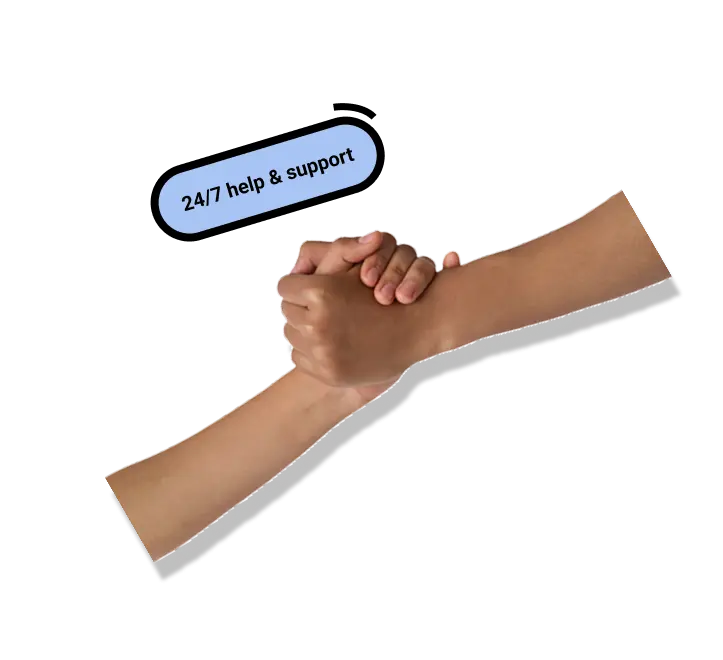
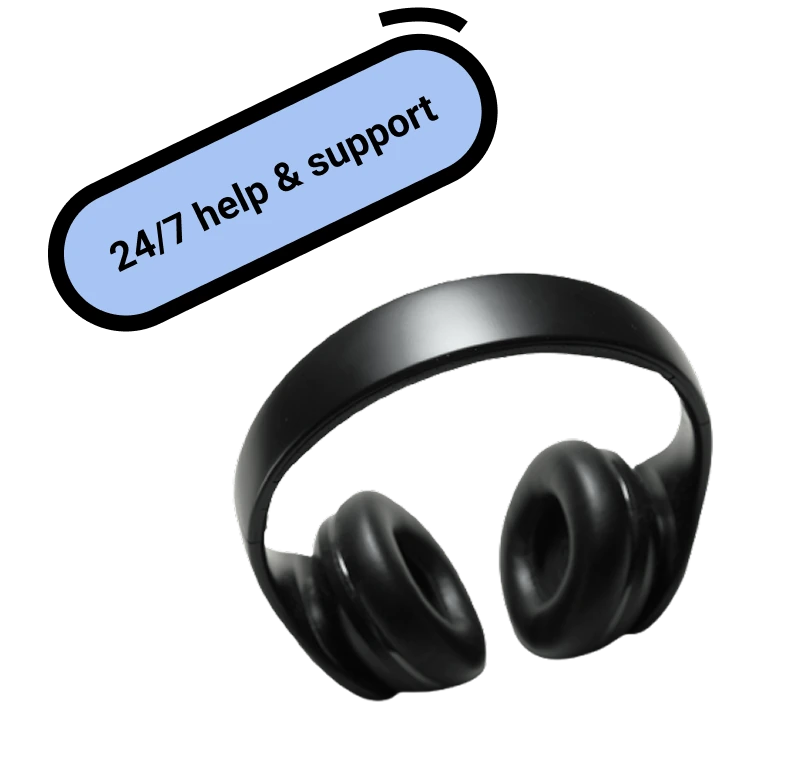
fixed stacking cards glitch.

diff --git a/app/[locale]/components/Home/Features.tsx b/app/[locale]/components/Home/Features.tsx
@@ -1,11 +1,8 @@
 "use client";
 
-import { useEffect, useRef } from "react";
-import gsap from "gsap";
-import { ScrollTrigger } from "gsap/ScrollTrigger";
 import Image from "next/image";
-
-import { motion } from "framer-motion";
+import { motion, useScroll, useTransform } from "framer-motion";
+import { useRef } from "react";
 import { useTranslations } from "next-intl";
 
 const Features = () => {
@@ -19,7 +16,7 @@ const Features = () => {
       points: t.raw("healthAssessment.points"),
       img: "/images/FreeTools.webp",
       checkPointIcon: "/icons/checkpoint_green.svg",
-      imgStyle: "w-0 md:w-60 md:right-0 md:top-10 lg:w-90 lg:right-0 lg:top-10",
+      imgStyle: "md:w-55 md:right-0 md:-top-20 lg:w-90 lg:right-5 lg:-top-30",
       bgStyle: "bg-[#CBE4C0]",
       textStyle: "text-[#2E551E]",
     },
@@ -28,7 +25,7 @@ const Features = () => {
       points: t.raw("personalizedPlan.points"),
       img: "/images/PrivateSpecialist.webp",
       checkPointIcon: "/icons/checkpoint_white.svg",
-      imgStyle: "w-0 md:w-85 md:right-0 md:top-5 lg:w-120 lg:right-0 lg:top-10",
+      imgStyle: "md:w-70 md:right-0 md:-top-25 lg:w-120 lg:right-0 lg:-top-30",
       bgStyle: "bg-[#4D8E32]",
       textStyle: "text-white",
     },
@@ -38,55 +35,25 @@ const Features = () => {
       img: "/images/HelpAndSupport.webp",
       checkPointIcon: "/icons/checkpoint_white.svg",
       imgStyle:
-        "w-0 md:w-80 md:-right-20 md:-bottom-20 lg:w-120 lg:-right-20 lg:-bottom-30",
-      bgStyle: "bg-[#3A6B26] overflow-hidden",
+        "md:w-50 md:right-0 md:-bottom-30 lg:w-70 lg:right-0 lg:-bottom-40",
+      bgStyle: "bg-[#3A6B26]",
       textStyle: "text-white",
     },
   ];
 
-  useEffect(() => {
-    gsap.registerPlugin(ScrollTrigger);
-
-    const cards = gsap.utils.toArray<HTMLElement>(".stacking-card");
-    const spacer = 30;
-
-    cards.forEach((card, index) => {
-      ScrollTrigger.create({
-        trigger: card,
-        start: `center-=${index * spacer} center`,
-        endTrigger: ".stacking",
-        end: `bottom center`,
-        pin: true,
-        pinSpacing: false,
-        invalidateOnRefresh: true,
-      });
-
-      const scaleValue = 0.9 + index * 0.04;
-
-      gsap.to(card, {
-        scrollTrigger: {
-          trigger: card,
-          start: `top center`,
-          end: `bottom center`,
-          scrub: true,
-        },
-        scale: scaleValue,
-      });
-    });
-
-    return () => {
-      ScrollTrigger.getAll().forEach((t) => t.kill());
-    };
-  }, []);
+  const { scrollYProgress } = useScroll({
+    target: containerRef,
+    offset: ["start start", "end end"],
+  });
 
   return (
-    <section ref={containerRef} className="text-white">
+    <section ref={containerRef} className="relative">
       {/* Header */}
       <motion.div
         initial={{ opacity: 0 }}
         whileInView={{ opacity: 1 }}
         viewport={{ once: true, amount: 0.4 }}
-        transition={{ duration: 1, ease: "easeInOut" }}
+        transition={{ duration: 1 }}
         className="mt-20 max-w-xl lg:max-w-2xl mx-auto text-center px-10 lg:px-4"
       >
         <h2 className="font-medium text-3xl text-black md:text-5xl lg:text-6xl">
@@ -99,11 +66,15 @@ const Features = () => {
 
         <motion.div
           animate={{ y: [0, -15, 0] }}
-          transition={{ duration: 2, repeat: Infinity, ease: "easeInOut" }}
+          transition={{
+            duration: 2,
+            repeat: Infinity,
+            ease: "easeInOut",
+          }}
           className="max-w-fit mx-auto mt-7.5"
         >
           <Image
-            src={"/icons/arrow-down.svg"}
+            src="/icons/arrow-down.svg"
             alt="arrow down"
             width={84}
             height={84}
@@ -112,14 +83,22 @@ const Features = () => {
         </motion.div>
       </motion.div>
 
-      {/* Stacking */}
-      <div className="stacking px-5 md:px-7.5">
-        {featuresList.map((feature, index) => (
-          <FeatureCard key={index} feature={feature} />
-        ))}
+      {/* Cards */}
+      <div className="relative mt-20 px-5 md:px-7.5">
+        {featuresList.map((feature, index) => {
+          const targetScale = 1 - (featuresList.length - index) * 0.02;
+          return (
+            <FeatureCard
+              key={index}
+              feature={feature}
+              index={index}
+              progress={scrollYProgress}
+              range={[index * 0.25, 1]}
+              targetScale={targetScale}
+            />
+          );
+        })}
       </div>
-
-      <div className="h-40 md:h-60"></div>
     </section>
   );
 };
@@ -134,60 +113,115 @@ type featurePropType = {
   textStyle: string;
 };
 
-const FeatureCard = ({ feature }: { feature: featurePropType }) => {
+type CardProps = {
+  feature: featurePropType;
+  index: number;
+  progress: any;
+  range: [number, number];
+  targetScale: number;
+};
+
+const FeatureCard = ({
+  feature,
+  index,
+  progress,
+  range,
+  targetScale,
+}: CardProps) => {
+  const containerRef = useRef<HTMLDivElement | null>(null);
+
+  const { scrollYProgress } = useScroll({
+    target: containerRef,
+    offset: ["start end", "start start"],
+  });
+
+  const imageScale = useTransform(scrollYProgress, [0, 1], [1.2, 1]);
+
+  const scale = useTransform(progress, range, [1, targetScale]);
+
   return (
     <div
-      className={`stacking-card
-        relative
-        max-w-7xl
-        p-5
-        md:p-12
-        lg:p-15
-        mx-auto
-        my-[20vh]
-        rounded-3xl
-        shadow-xl w-full ${feature.bgStyle}`}
+      ref={containerRef}
+      className="sticky top-10 h-screen flex items-center justify-center"
     >
-      {/* Content */}
-      <div className="flex flex-col gap-7 lg:gap-10 max-w-4xl justify-center">
-        <h3
-          className={`text-2xl md:text-3xl lg:text-[45px] xl:text-[60px] font-bold ${feature.textStyle}`}
-        >
-          {feature.title}
-        </h3>
-        <ul className="flex flex-col gap-3 md:gap-5 lg:gap-8">
-          {feature.points.map((point, index) => (
-            <li key={index} className="flex flex-row gap-3 items-start">
-              <Image
-                src={feature.checkPointIcon}
-                alt="feature"
-                width={700}
-                height={600}
-                className="w-5 h-7 lg:w-6 lg:h-7 xl:w-9.5 xl:h-8"
-              />
-              <p
-                className={`text-[17px] md:text-[18px] lg:text-[20px] xl:text-[25px] font-medium ${feature.textStyle}`}
-              >
-                {point}
-              </p>
-            </li>
-          ))}
-        </ul>
-      </div>
-
-      {/* Image */}
-      <Image
-        src={feature.img}
-        alt="feature"
-        width={400}
-        height={200}
+      <motion.div
+        style={{
+          scale,
+          top: `calc(-5vh + ${index * 15}px)`,
+          willChange: "transform",
+        }}
         className={`
-        absolute
-        z-20 
-        h-auto
-        ${feature.imgStyle}
-    `}
-      />
+          relative
+          origin-top
+          max-w-full
+          md:max-w-7xl
+          p-8 pb-0
+          md:p-12
+          lg:p-15
+          rounded-3xl
+          shadow-2xl
+          w-full
+          h-fit
+          transform-gpu
+          overflow-hidden
+          ${feature.bgStyle}
+        `}
+      >
+        {/* Content */}
+        <div className="flex flex-col gap-7 lg:gap-10 max-w-4xl justify-center relative z-10">
+          <h3
+            className={`text-2xl md:text-3xl lg:text-[45px] xl:text-[60px] font-bold ${feature.textStyle}`}
+          >
+            {feature.title}
+          </h3>
+
+          <ul className="flex flex-col gap-3 md:gap-5 lg:gap-8">
+            {feature.points.map((point, index) => (
+              <li key={index} className="flex flex-row gap-3 items-start">
+                <Image
+                  src={feature.checkPointIcon}
+                  alt="feature"
+                  width={700}
+                  height={600}
+                  className="w-5 h-7 lg:w-6 lg:h-7 xl:w-9.5 xl:h-8"
+                />
+
+                <p
+                  className={`text-[17px] md:text-[18px] lg:text-[20px] xl:text-[25px] font-medium ${feature.textStyle}`}
+                >
+                  {point}
+                </p>
+              </li>
+            ))}
+          </ul>
+        </div>
+
+        {/* Image */}
+        <motion.div
+          style={{
+            scale: imageScale,
+            willChange: "transform",
+          }}
+          className="w-full relative place-self-center md:absolute md:inset-0 pointer-events-none"
+        >
+          <Image
+            src={feature.img}
+            alt="feature"
+            width={400}
+            height={200}
+            className={`
+              md:absolute
+              z-20
+              h-50
+              w-auto
+              md:h-auto
+              transform-gpu
+              place-self-end
+              ${feature.imgStyle}
+            `}
+          />
+        </motion.div>
+      </motion.div>
     </div>
   );
 };

diff --git a/app/[locale]/components/LandingHeader/NavList.tsx b/app/[locale]/components/LandingHeader/NavList.tsx
@@ -52,11 +52,12 @@ const NavList = ({ tabs }: { tabs: tabType[] }) => {
       </ul>
 
       <div className="flex flex-row justify-center items-center gap-3">
-        <div className="relative">
-          <button
-            onClick={toggleLanguageOptions}
-            className="rounded-4xl px-5 py-2 shadow-[0_0_7px_0px_rgba(0,0,0,0.2)] flex flex-row gap-2.5 cursor-pointer hover:bg-white transition-colors duration-200"
-          >
+        <div
+          onMouseEnter={toggleLanguageOptions}
+          onMouseLeave={toggleLanguageOptions}
+          className="relative"
+        >
+          <div className="rounded-4xl px-5 py-2 shadow-[0_0_7px_0px_rgba(0,0,0,0.2)] flex flex-row gap-2.5 cursor-pointer hover:bg-white transition-colors duration-200">
             <Image
               width={24}
               height={24}
@@ -64,7 +65,7 @@ const NavList = ({ tabs }: { tabs: tabType[] }) => {
               alt="langauge change icon"
             />
             <span className="text-[20px] font-bold text-[#1B3212]">{"En"}</span>
-          </button>
+          </div>
 
           <AnimatePresence>
             {showLanguageOptions && (
